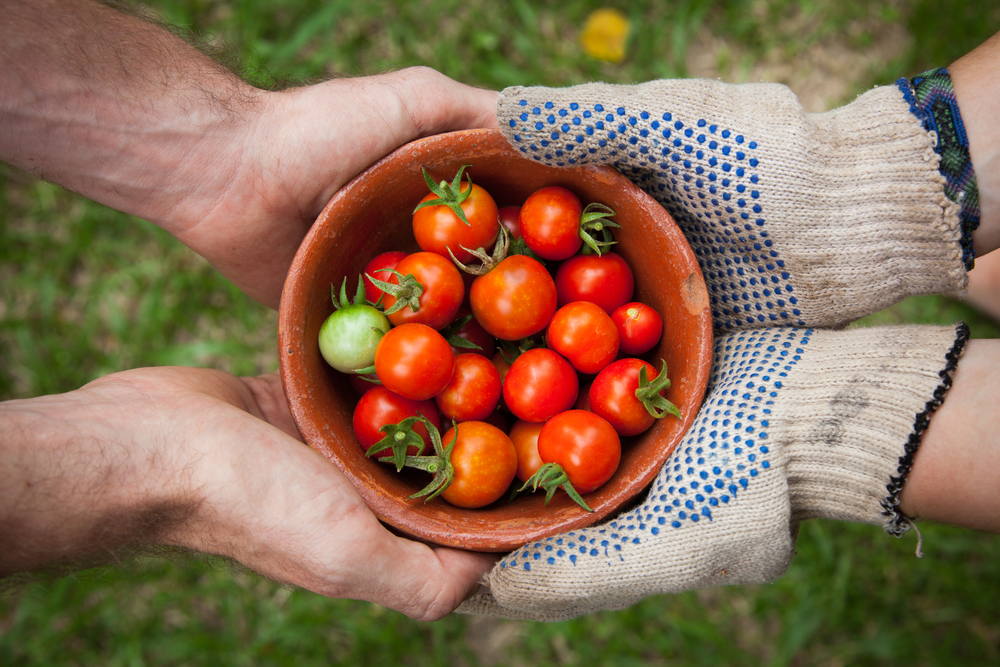
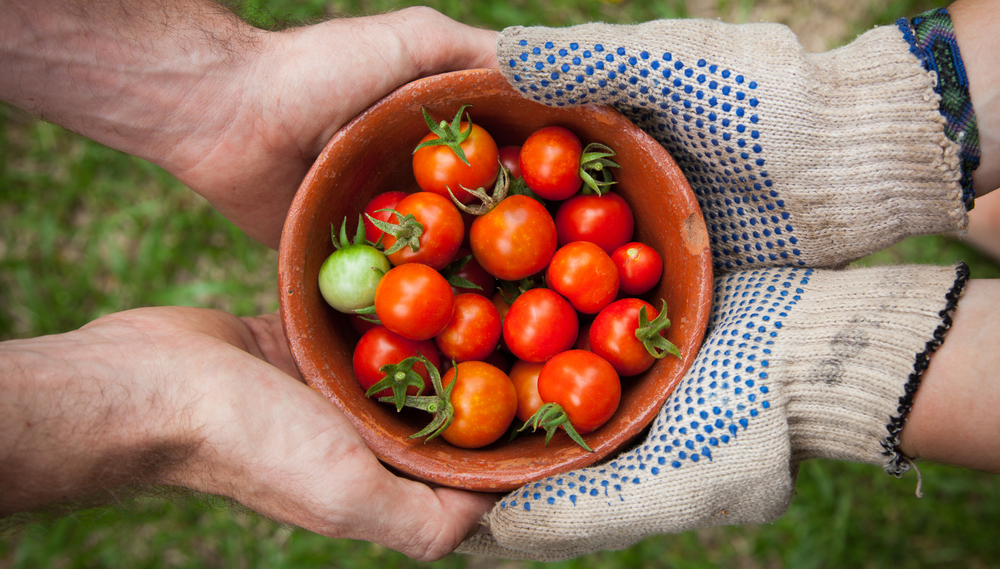
Site is ready for mobile

diff --git a/client/components/homeItemSearchBar/homeItemSearchBar.html b/client/components/homeItemSearchBar/homeItemSearchBar.html
@@ -1,23 +1,22 @@
-
 <div md-whiteframe="3" class="md-padding blah" id="mainSearchBar">
   <div layout="row" layout-align="start center" style="height: 30px;cursor: pointer"
        ng-click="$ctrl.showSearchForm = !$ctrl.showSearchForm">
     <md-icon style="margin: 0 10px 0 0;">
       <ng-md-icon icon="search"></ng-md-icon>
     </md-icon>
-    <h3 id="searchBarText">Search anywhere, for anything at anytime</h3>
+    <h3 id="searchBarText">Rent anything, anywhere</h3>
   </div>
 
-  <div style="border-top: 1px solid;" ng-if="$ctrl.showSearchForm">
-    <md-input-container style="margin: 18px 0 0;width: 95%;height: 35px;">
+  <div style="border-top: 1px solid rgba(0, 0, 0, 0.42);margin-top: 5px;" ng-if="$ctrl.showSearchForm">
+    <md-input-container style="margin: 18px 0 0;width: 90%;height: 35px;">
       <md-icon>
         <ng-md-icon icon="pan_tool"></ng-md-icon>
       </md-icon>
       <label style="">Keyword for Item</label>
-      <input type="text"/>
+      <input type="text" />
     </md-input-container>
 
-    <md-input-container style="margin: 15px 0 0;width: 95%;height: 35px;">
+    <md-input-container style="margin: 15px 0 0;width: 90%;height: 35px;">
       <md-icon>
         <ng-md-icon icon="home"></ng-md-icon>
       </md-icon>
@@ -25,37 +24,19 @@
       <input type="text"/>
     </md-input-container>
 
-    <div layout="row">
-      <md-input-container style="margin: 15px 0 0;width: 45%;height: 35px;">
+    <div layout="row" layout-xs="column">
+      <md-input-container class="datePickerContainers">
         <label style="">Start Date</label>
         <md-datepicker ng-model="ctrl.myDate" md-open-on-focus flex></md-datepicker>
       </md-input-container>
-      <md-input-container style="margin: 15px 0 0;width: 45%;height: 35px;">
+      <md-input-container class="datePickerContainers">
         <label style="">Start Date</label>
         <md-datepicker ng-model="ctrl.myDate" md-open-on-focus flex></md-datepicker>
       </md-input-container>
 
-      <md-button style="min-width: 1%; width: 50px;" class="md-primary" ng-click="$ctrl.showSearchForm = false">Go</md-button>
+      <md-button id="searchBarGoButton" class="md-primary" ng-click="$ctrl.showSearchForm = false">Go
+      </md-button>
     </div>
 
   </div>
-
-  <!-- <md-input-container style="margin: 0;" flex>
-     <label style="font-size: x-large;">Where to...</label>
-     <input type="text"/>
-   </md-input-container>
-   <md-input-container style="margin: 0;" flex>
-     <label style="font-size: x-large;">keyword</label>
-     <input type="text"/>
-   </md-input-container>
-   <md-input-container style="margin: 0;" flex>
-     <label style="font-size: x-large;">Start Date</label>
-     <md-datepicker ng-model="ctrl.startDate" md-open-on-focus></md-datepicker>
-   </md-input-container>
-   <md-input-container style="margin: 0;" flex>
-     <label style="font-size: x-large;">End Date</label>
-     <md-datepicker ng-model="ctrl.endDate" md-open-on-focus></md-datepicker>
-   </md-input-container>
-   <md-button class="md-raised md-primary" style="    height: 100%;margin-top: 0px; margin-right: -8px;">Search
-   </md-button>-->
 </div>

diff --git a/client/app/main/main.css b/client/app/main/main.css
@@ -4,10 +4,28 @@
   padding-left: 15% !important;
 }
 
+#imageCaptionContainer{
+  position: absolute;
+  z-index: 100;
+  padding: 9px;
+  background: rgba(0, 0, 0, 0.65);
+  color: white;
+  right: 10%;
+  top: 25%;
+  width: 216px;
+}
+
+#imageCaptionText{
+  margin: 0;
+  font-size: 41px;
+  font-weight: 900;
+}
+
 #mainSearchComponent {
   display: block;
-  margin-top: 5%;
-  position: relative
+  margin-top: -2%;
+  position: absolute;
+  width: 100%;
 }
 
 .mainHeaderSubHeader {
@@ -16,11 +34,12 @@
   font-size: 45px !important;
   letter-spacing: -0.8px !important;
   line-height: 56px;
+  margin-bottom:20px;
 }
 
 #mainImage {
-  width: 80%;
-  max-height: 600px;
+  width: 90%;
+  max-height: 470px;
 }
 
 #mainHeaderText {
@@ -35,6 +54,14 @@
   top: -19%;
   right: 8%;
 }
+
+#mainSecondHeaderContainer{
+  position: relative;
+}
+
+
+/* -------------Media Queries Below Ascending order----------------------------*/
+
 
 @media screen and (max-width: 1200px) {
 
@@ -58,8 +85,9 @@
 @media screen and (max-width: 1040px) {
 
   #signupComponent {
-    top: -19%;
+    top: -30%;
   }
+
 
 
 }
@@ -81,6 +109,19 @@
   #mainImage {
     width: 90%;
   }
+
+
+  #imageCaptionContainer{
+    top: 27%;
+    width: 191px;
+  }
+
+  #imageCaptionText{
+    font-size: 41px;
+  }
+
+
+
 }
 
 @media screen and (max-width: 700px) {
@@ -106,7 +147,39 @@
   #mainSearchComponent {
     display: block;
     margin-top: -3%;
-    position: relative
   }
+
+  #mainSecondHeaderContainer{
+    margin-bottom: 50px;
+  }
+
+
+  #imageCaptionContainer{
+    top: 21%;
+    width: 138px;
+    right:3%;
+  }
+
+  #imageCaptionText{
+    font-size: 30px;
+  }
+
+}
+
+@media screen and (max-width: 450px) {
+
+  #imageCaptionContainer{
+    width: 114px;
+    right: 2%;
+    top: 22%;
+  }
+
+  #imageCaptionText{
+    font-size: 22px;
+  }
+
+
+
+
 
 }

diff --git a/client/components/toolbar/toolbar.html b/client/components/toolbar/toolbar.html
@@ -1,11 +1,12 @@
 <md-toolbar style="background-color: white;height: 60px;min-height: 60px">
   <div class="md-toolbar-tools" style="margin: auto;">
-      <ng-md-icon icon="menu" size="48" style="color: #000;margin-left: 1%; margin-bottom: 30px"></ng-md-icon>
+    <ng-md-icon icon="menu" size="48" style="color: #000;margin-left: 1%; margin-bottom: 30px"></ng-md-icon>
     <span flex></span>
     <md-button style="color: #000;" hide-xs hide-sm>Start Earning</md-button>
     <md-button style="color: #000;" hide-xs hide-sm>Help</md-button>
-    <md-button style="color: #000;">Search<span hide-xs> Your Area</span></md-button>
-    <md-button style="color: #000;margin-right: 1%;">Sign In
+    <md-button style="color: white;background-color: rgba(197, 141, 161, 0.55)">Sign up
+    </md-button>
+    <md-button style="color: #000;margin-right: 1%;">Log In
       <ng-md-icon icon="arrow_forward" style="color: #000;"></ng-md-icon>
     </md-button>
   </div>

diff --git a/client/components/homeItemSearchBar/homeItemSearchBar.css b/client/components/homeItemSearchBar/homeItemSearchBar.css
@@ -14,9 +14,22 @@ button.md-button.md-icon-button {
   background-color: white;
 }
 
-#searchBarText{
-    opacity: 07;
+#searchBarText {
+  opacity: 07;
 }
+
+.datePickerContainers {
+  margin: 15px 0 0;
+  width: 45%;
+  height: 35px;
+}
+
+#searchBarGoButton {
+  min-width: 1%;
+  width: 50px;
+}
+
+/*-------------------------------------------*/
 
 @media screen and (max-width: 900px) {
   #mainSearchBar {
@@ -25,15 +38,25 @@ button.md-button.md-icon-button {
 
 }
 
-@media screen and (max-width: 550px) {
+@media screen and (max-width: 600px) {
+
+  .datePickerContainers {
+    width: 100%;
+  }
+
   #mainSearchBar {
     width: 90%;
 
   }
 
-  #searchBarText{
-    font-size:14px;
+  #searchBarText {
+    font-size: 14px;
 
+  }
+
+  #searchBarGoButton {
+    left: 85%;
+    margin-top: -42px;
   }
 
 }

diff --git a/client/components/carouselContainer/carouselContainer.css b/client/components/carouselContainer/carouselContainer.css
@@ -1,7 +1,7 @@
 #carouselOuterContainer {
   margin-top: 30px;
-  margin-right: 15%;
-  margin-left: 15%;
+  margin-right: 10%;
+  margin-left: 10%;
   overflow-y: hidden;
 }
 
@@ -12,9 +12,6 @@
 }
 
 #carouselCoreContainer {
-  width: 100%;
-  margin-top: 20px;
-  overflow: hidden;
 }
 
 .carouselLeftRightButtons {
@@ -28,4 +25,24 @@
   width: 100%;
   margin-bottom: -25px;
   padding-bottom: -25px;
+}
+
+
+/* -------------Media Queries Below Ascending order----------------------------*/
+
+@media screen and (max-width: 700px) {
+  #carouselOuterContainer {
+    margin-top: 10px;
+    margin-right: 8%;
+    margin-left: 8%;
+  }
+}
+
+@media screen and (max-width: 550px) {
+  #carouselOuterContainer {
+    margin-top: 5px;
+    margin-right: 5%;
+    margin-left: 5%;
+
+  }
 }

diff --git a/client/app/main/main.html b/client/app/main/main.html
@@ -3,12 +3,18 @@
   <h3 class="mainHeaderSubHeader">Save Money, Time, and Space.</h3>
 </div>
 
-<div style="position: relative">
+<div id="imageCaptionContainer">
+  <h3 id="imageCaptionText">Just borrow from your neighbor</h3>
+</div>
+
+<div id="mainSecondHeaderContainer" style="">
   <div style="background: rgba(197, 141, 161, 0.25);">
     <img id="mainImage" src='assets/images/sharingTomatoes.jpg' style="">
   </div>
 
+<!--
   <sign-up-form id="signupComponent" hide-xs hide-sm></sign-up-form>
+-->
 
   <home-item-search-bar id="mainSearchComponent"></home-item-search-bar>
 

diff --git a/client/components/itemCarouselTemplate/itemCarouselTemplate.css b/client/components/itemCarouselTemplate/itemCarouselTemplate.css
@@ -1,0 +1,28 @@
+#itemCarouselContainer{
+  margin-bottom: 30px;
+}
+
+#imageHeight {
+  height: 200px;
+  margin: 5px;
+}
+
+
+#itemCarouselDescription {
+  margin: 0;
+  font-weight: 100;
+  font-size: 15px;
+  word-wrap: break-word;
+}
+
+@media screen and (max-width: 700px) {
+  #imageHeight {
+    height: 160px;
+  }
+}
+
+@media screen and (max-width: 550px) {
+  #imageHeight {
+    height: 120px;
+  }
+}

diff --git a/client/components/itemCarouselTemplate/itemCarouselTemplate.html b/client/components/itemCarouselTemplate/itemCarouselTemplate.html
@@ -1,5 +1,5 @@
-<div layout="column">
-  <img style="height: 200px;margin: 5px;" src="{{$ctrl.imagePath}}">
-  <h3 style="margin: 0"><b>$15</b>  Lawnmower - Forked River</h3>
+<div layout="column" id="itemCarouselContainer">
+  <img id="imageHeight" style="" src="{{$ctrl.imagePath}}">
+  <h3 id="itemCarouselDescription"><b>$15</b>  Lawnmower - Forked River</h3>
 </div>
 
